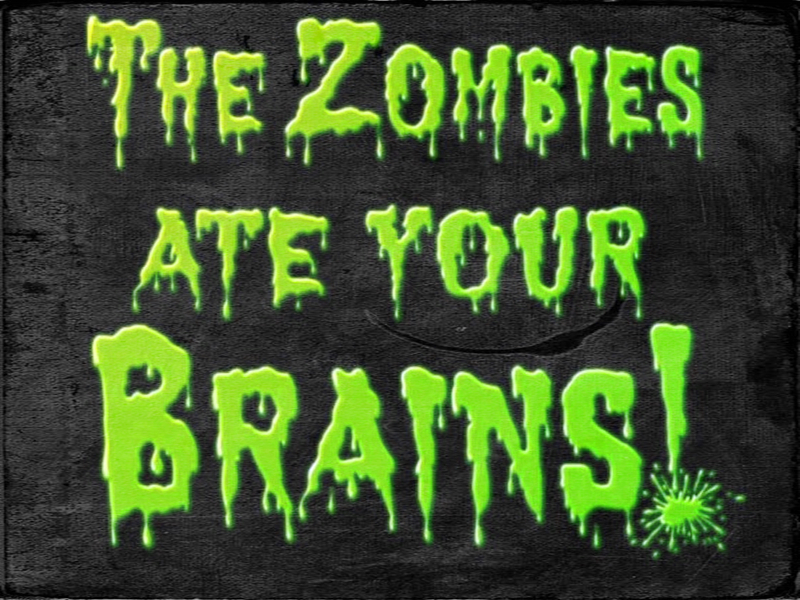
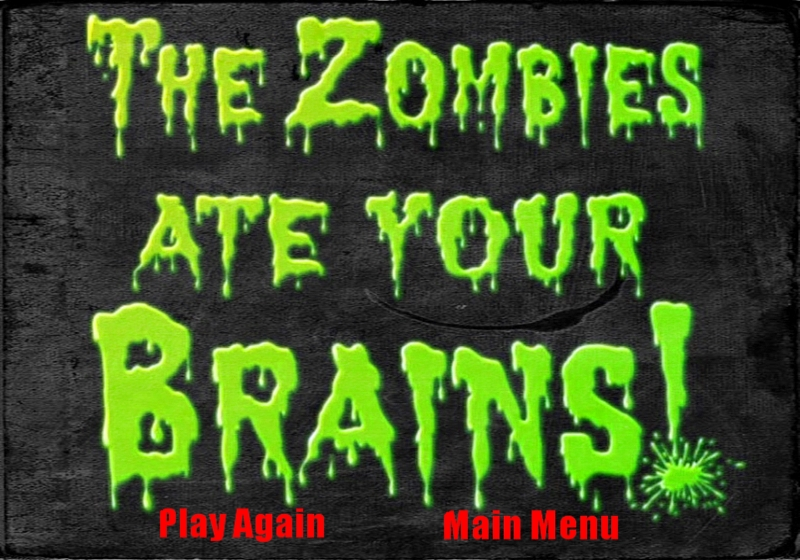
Added help section and quit button in game menu

Changed region(s): [[0.5312, 0.9107, 0.7812, 0.9714], [0.1875, 0.9107, 0.4062, 0.9714]]

diff --git a/controllers/game.py b/controllers/game.py
@@ -250,9 +250,25 @@ class GameController(PygameController):
                         self.aboutus()
                     elif 117 < x < 287 and 372 < y < 443: # Homepage
                         webbrowser.open_new("http://127.0.0.1:5000")
+                    elif 574 < x < 632 and 444 < y < 540:
+                        self.help()
+                    elif 489 < x < 559 and 444 < y < 540:
+                        exit()
                 elif event.type == pygame.QUIT:
                     pygame.quit()
 
+    def help(self):
+        runing = True
+        while runing:
+            help_img =  pygame.image.load('./imgs/help.png')
+            self.MainView.window.blit(help_img, (0,0))
+            pygame.display.flip()
+            for event in pygame.event.get():
+                 if event.type == pygame.MOUSEBUTTONDOWN:
+                    x, y = pygame.mouse.get_pos()
+                    if 531 < x < 687 and 491 < y < 521:
+                        runing = False
+                        self.start_game()
 
     def aboutus(self):
         x = self.MainView.window.get_rect().centerx 
@@ -295,18 +311,3 @@ class GameController(PygameController):
         self.MainView.window.blit(endimg, (0,0))
         pygame.display.flip()
         pygame.time.wait(2000)
-
-
-
-
-    # def sendGameStat(self):
-    #     cur_game_state = GameState(self.userName, self.level, self.score, self.remnant_score, self.money,self.GAMEOVER, datetime.now())
-    #     url = "http://localhost:5000/update_game_state"
-    #     requests.post(
-    #         url,
-    #         data=cur_game_state.to_json(),
-    #         headers={'Content-Type': 'application/json'}
-    #     )
-    #     if not self.GAMEOVER:
-    #         timer = threading.Timer(1, self.sendGameStat)
-    #         timer.start()
